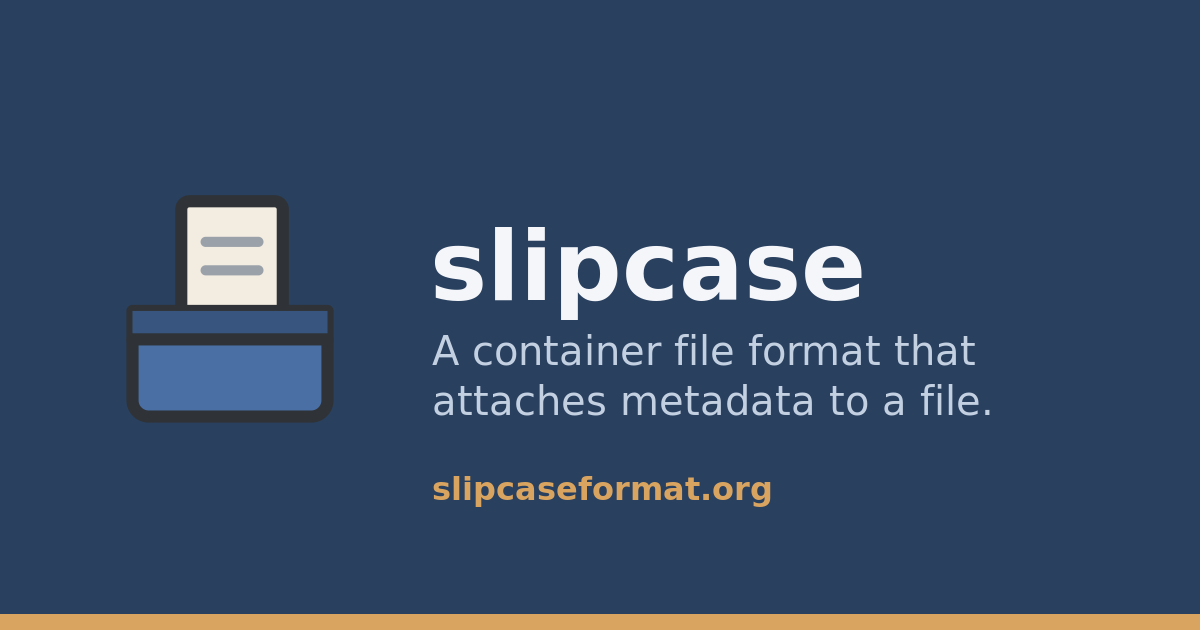
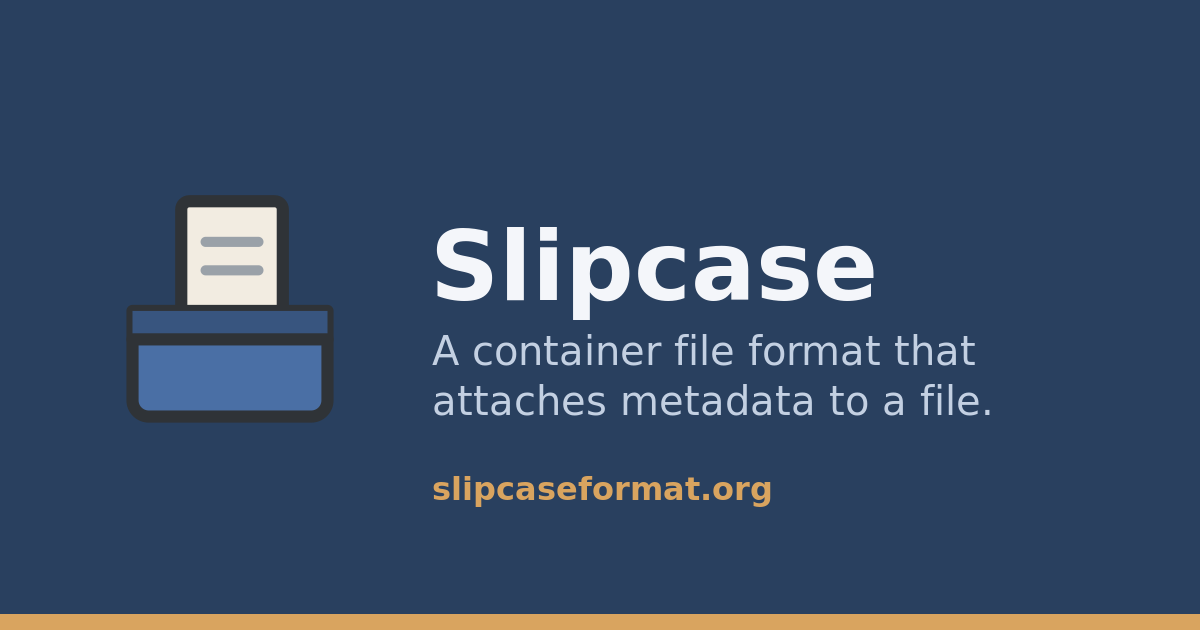
Capitalize the format's name
Slipcase is a name. The site wrote it lowercase throughout while the
application that opens containers has always been Slipcase, and the two
readings sat one click apart.

Applied where the word is the name and nowhere else: the command-line
tool's own invocations stay lowercase, because "slipcase pack" and
"apt install slipcase" are a command rather than a sentence, and every
identifier — the metadata filename, the version key, the media type, the
package names, the icon file — is untouched. The rule in the sweep was to
skip code spans whole.

The two generated pages come from excelano/slipcase at 2a82e43, which made
the matching change to SPEC.md and DESIGN.md, so the specification and the
site say the name the same way. The social card is rebuilt.

Claude-Session: https://claude.ai/code/session_01PTDU2WeHSn2RYZXpgkjeLD

Changed region(s): [[0.3392, 0.3619, 0.74, 0.5127]]

diff --git a/design/index.html b/design/index.html
@@ -11,18 +11,18 @@
 <head>
     <meta charset="UTF-8">
     <meta name="viewport" content="width=device-width, initial-scale=1.0">
-    <title>slipcase — Design Document</title>
+    <title>Slipcase — Design Document</title>
     <meta name="description" content="SPEC.md states the rules. This document says why each one is drawn where it is,">
     <link rel="canonical" href="https://slipcaseformat.org/design/">
     <link rel="icon" href="/img/slipcase-icon.svg" type="image/svg+xml">
     <link rel="apple-touch-icon" href="/img/apple-touch-icon.png">
     <meta property="og:type" content="website">
-    <meta property="og:site_name" content="slipcase">
-    <meta property="og:title" content="slipcase — Design Document">
+    <meta property="og:site_name" content="Slipcase">
+    <meta property="og:title" content="Slipcase — Design Document">
     <meta property="og:description" content="SPEC.md states the rules. This document says why each one is drawn where it is,">
     <meta property="og:url" content="https://slipcaseformat.org/design/">
     <meta property="og:image" content="https://slipcaseformat.org/img/og-card.png">
-    <meta property="og:image:alt" content="The slipcase icon beside the words slipcase and the line: a container file format that attaches metadata to a file.">
+    <meta property="og:image:alt" content="The Slipcase icon beside the words Slipcase and the line: a container file format that attaches metadata to a file.">
     <meta name="twitter:card" content="summary_large_image">
     <link rel="stylesheet" href="/axe/default.css">
     <link rel="stylesheet" href="/brand.css"><!-- site brand override; cascades over default.css -->
@@ -33,7 +33,7 @@
 
 <nav>
     <ul>
-        <li><a href="/">slipcase</a></li>
+        <li><a href="/">Slipcase</a></li>
         <li><a href="/spec/">Specification</a></li>
         <li><a href="/design/">Design</a></li>
         <li><a href="/implementations/">Implementations</a></li>
@@ -46,7 +46,7 @@
 <article>
 
     <header>
-        <h1>slipcase — Design Document</h1>
+        <h1>Slipcase — Design Document</h1>
         <p class="lede">Why each rule is the way it is, and what was considered and rejected.</p>
     </header>
 
@@ -68,11 +68,11 @@
 <p>So this document does not restate a rule in order to explain it. A rule lives in one place, and a change to a rule is an edit to <code>SPEC.md</code> alone; a change to the reasoning is an edit here alone. Rules are cited as <strong>SPEC §2.1</strong>, never as a bare section number, because both documents have a §3 and they are not the same subject.</p>
 <hr />
 <h2 id="1-what-this-is-about">1. What this is about</h2>
-<p><code>README.md</code> states what slipcase is and the problem it addresses: most files have nowhere to put metadata, and the usual answers — filenames, sidecars, a database — each fail as soon as the file moves. This document assumes that framing and takes up where it leaves off.</p>
-<p>One property of it bears on almost every decision below. slipcase is domain-neutral: nothing in the format knows about any particular industry, system, or kind of document. Where a rule could have been bent toward one kind of payload, it was not.</p>
+<p><code>README.md</code> states what Slipcase is and the problem it addresses: most files have nowhere to put metadata, and the usual answers — filenames, sidecars, a database — each fail as soon as the file moves. This document assumes that framing and takes up where it leaves off.</p>
+<p>One property of it bears on almost every decision below. Slipcase is domain-neutral: nothing in the format knows about any particular industry, system, or kind of document. Where a rule could have been bent toward one kind of payload, it was not.</p>
 <hr />
 <h2 id="2-created-with-ordinary-tools">2. Created with ordinary tools</h2>
-<p>A container can be built with <code>zip</code> and a text editor, and its contents recovered with <code>unzip</code>. No slipcase implementation is required at either end, on any platform, and there is no incantation to get right:</p>
+<p>A container can be built with <code>zip</code> and a text editor, and its contents recovered with <code>unzip</code>. No Slipcase implementation is required at either end, on any platform, and there is no incantation to get right:</p>
 <pre class="bash"><code>cat &gt; slipcase.metadata.toml &lt;&lt;&#39;EOF&#39;
 slipcase_version = &quot;1.0&quot;
 
@@ -105,7 +105,7 @@ zip report.pdf.slpc slipcase.metadata.toml report.pdf</code></pre>
 <p><strong>Why the specification lists what it does not constrain.</strong> An implementer reading about a ZIP-based format will reasonably wonder whether member order, compression method, timestamps, encryption, or Zip64 are pinned. SPEC §2.5 answers all of them at once so that nobody writes a reader that rejects a container for a property the format never cared about. A zero-byte payload is valid for the same reason: an empty file is a file, and someone would otherwise guess it was not.</p>
 <p><strong>Why no magic bytes.</strong> The extension and media type live outside the container. The alternative — a <code>mimetype</code> member stored uncompressed at a known offset — is examined and rejected in §5.</p>
 <h3 id="32-the-metadata-member--spec-22-24">3.2 The metadata member — SPEC §2.2, §2.4</h3>
-<p><strong>Why it is mandatory, and why its name is fixed.</strong> There is no such thing as a slipcase container without metadata. The fixed name is what makes the payload discoverable, since the payload's own name is not known in advance.</p>
+<p><strong>Why it is mandatory, and why its name is fixed.</strong> There is no such thing as a Slipcase container without metadata. The fixed name is what makes the payload discoverable, since the payload's own name is not known in advance.</p>
 <p><strong>Why the TOML version is pinned.</strong> An implementer otherwise does not know which grammar to write against. It is unrelated to <code>slipcase_version</code>, which names this specification rather than the metadata language.</p>
 <p><strong>Why a byte order mark is permitted.</strong> TOML says nothing about a leading mark and parsers split on whether to strip one or reject it, so the format decides rather than leaving it to whichever library an implementation happens to link. Rejecting would punish someone whose editor inserted a character they cannot see, which sits badly with a format that advertises hand-editing.</p>
 <p><strong>Why an unreadable metadata member is undetermined.</strong> SPEC §2.5 does not permit rejecting a container because a member is encrypted, while SPEC §2.2 requires the metadata member to parse as TOML, which an encrypted member does not. The requirement therefore applies to the decrypted content, and a container whose metadata cannot be read is undetermined rather than non-conformant. A reader without the key knows it cannot answer the question, and that is different from knowing the answer is no.</p>
@@ -141,7 +141,7 @@ zip report.pdf.slpc slipcase.metadata.toml report.pdf</code></pre>
 <p>This section once ended by saying that nothing else in SPEC §3 was a security requirement, and that decompression bombs and resource limits belonged to whatever ZIP parser an implementation used, since they applied equally to every ZIP consumer. Four of the rules above are now security requirements. The resource-limit claim was wrong in its premise rather than in its conclusion: a ZIP consumer chooses what to inflate and a reader of this format does not, because inflating the metadata member is how it finds out whether it is holding a container. SPEC §6 takes that up, and §6 below says why it is a rule rather than a library's business.</p>
 <hr />
 <h2 id="5-non-goals">5. Non-goals</h2>
-<p><strong>Signatures.</strong> Out of scope. Signing layers above slipcase, or arrives in a later specification version with its own member, which an implementation written against 1.0 will open and ignore. Anything built on top must account for the absence of a canonical serialization: hash what was actually signed, rather than assuming a container re-serializes identically.</p>
+<p><strong>Signatures.</strong> Out of scope. Signing layers above Slipcase, or arrives in a later specification version with its own member, which an implementation written against 1.0 will open and ignore. Anything built on top must account for the absence of a canonical serialization: hash what was actually signed, rather than assuming a container re-serializes identically.</p>
 <p><strong>Multiple payloads.</strong> <code>payload.file</code> names one member, so the metadata describes one file. A container may physically hold more, but the format assigns them no meaning and defines no aggregation mechanism. Naming N payloads would reinvent ZIP and make the metadata ambiguous about what it describes.</p>
 <p><strong>Encryption.</strong> The format adds none of its own and forbids none. Either member may be encrypted by ZIP's own mechanisms or by encrypting the file before packing it, and a container whose metadata is unreadable to a passer-by is still a container: it is attaching metadata to a file for whoever holds the key. Worth knowing rather than legislating: ZIP encryption narrows which implementations can open a container, since Go's <code>archive/zip</code> supports none of it and Info-ZIP's <code>unzip</code> has not handled AES.</p>
 <p><strong>Fixity.</strong> No checksum key, and no position on whether a payload has changed. That is a preservation question, and preservation is a separate discipline with its own formats. Anyone who wants a digest records one; the format simply does not define it, in the same way it defines no other descriptive key.</p>
@@ -157,7 +157,7 @@ zip report.pdf.slpc slipcase.metadata.toml report.pdf</code></pre>
     </section>
 
     <footer>
-        <p class="provenance">Rendered from <a href="https://github.com/excelano/slipcase/blob/033200d1a61700be7898ddf4bb4f41aa0f840930/DESIGN.md" rel="noopener">DESIGN.md</a> at commit <code>033200d</code>, 2 September 2026. The repository is the authority on the format: where this page and it differ, it is right and this page is stale.</p>
+        <p class="provenance">Rendered from <a href="https://github.com/excelano/slipcase/blob/2a82e43531bfe67720888df14c25d9aa223a23d5/DESIGN.md" rel="noopener">DESIGN.md</a> at commit <code>2a82e43</code>, 2 September 2026. The repository is the authority on the format: where this page and it differ, it is right and this page is stale.</p>
         <p><small>The specification is dedicated to the public domain under <a href="https://creativecommons.org/publicdomain/zero/1.0/" rel="noopener">CC0 1.0</a>. This site is <a href="https://github.com/excelano/slipcaseformat.org" rel="noopener">open to pull requests</a>, though not this page — it is generated.</small></p>
     </footer>
 

diff --git a/spec/index.html b/spec/index.html
@@ -11,18 +11,18 @@
 <head>
     <meta charset="UTF-8">
     <meta name="viewport" content="width=device-width, initial-scale=1.0">
-    <title>slipcase — Specification</title>
-    <meta name="description" content="A slipcase container is a ZIP archive that binds a single payload file to a metadata document describing it, so that the two travel as one file.">
+    <title>Slipcase — Specification</title>
+    <meta name="description" content="A Slipcase container is a ZIP archive that binds a single payload file to a metadata document describing it, so that the two travel as one file.">
     <link rel="canonical" href="https://slipcaseformat.org/spec/">
     <link rel="icon" href="/img/slipcase-icon.svg" type="image/svg+xml">
     <link rel="apple-touch-icon" href="/img/apple-touch-icon.png">
     <meta property="og:type" content="website">
-    <meta property="og:site_name" content="slipcase">
-    <meta property="og:title" content="slipcase — Specification">
-    <meta property="og:description" content="A slipcase container is a ZIP archive that binds a single payload file to a metadata document describing it, so that the two travel as one file.">
+    <meta property="og:site_name" content="Slipcase">
+    <meta property="og:title" content="Slipcase — Specification">
+    <meta property="og:description" content="A Slipcase container is a ZIP archive that binds a single payload file to a metadata document describing it, so that the two travel as one file.">
     <meta property="og:url" content="https://slipcaseformat.org/spec/">
     <meta property="og:image" content="https://slipcaseformat.org/img/og-card.png">
-    <meta property="og:image:alt" content="The slipcase icon beside the words slipcase and the line: a container file format that attaches metadata to a file.">
+    <meta property="og:image:alt" content="The Slipcase icon beside the words Slipcase and the line: a container file format that attaches metadata to a file.">
     <meta name="twitter:card" content="summary_large_image">
     <link rel="stylesheet" href="/axe/default.css">
     <link rel="stylesheet" href="/brand.css"><!-- site brand override; cascades over default.css -->
@@ -33,7 +33,7 @@
 
 <nav>
     <ul>
-        <li><a href="/">slipcase</a></li>
+        <li><a href="/">Slipcase</a></li>
         <li><a href="/spec/">Specification</a></li>
         <li><a href="/design/">Design</a></li>
         <li><a href="/implementations/">Implementations</a></li>
@@ -46,7 +46,7 @@
 <article>
 
     <header>
-        <h1>slipcase — Specification</h1>
+        <h1>Slipcase — Specification</h1>
         <p class="lede">What a conformant container is, and what a program that handles one must do.</p>
     </header>
 
@@ -67,7 +67,7 @@
     <section id="document">
 <p><strong>Version:</strong> 1.0<br />
 <strong>Status:</strong> final</p>
-<p>A slipcase container is a ZIP archive that binds a single payload file to a metadata document describing it, so that the two travel as one file.</p>
+<p>A Slipcase container is a ZIP archive that binds a single payload file to a metadata document describing it, so that the two travel as one file.</p>
 <h2 id="1-terminology">1. Terminology</h2>
 <p>The key words <strong>MUST</strong>, <strong>MUST NOT</strong>, and <strong>MAY</strong> are to be interpreted as described in BCP 14 (<a href="https://www.rfc-editor.org/rfc/rfc2119">RFC 2119</a>, <a href="https://www.rfc-editor.org/rfc/rfc8174">RFC 8174</a>) when, and only when, they appear in capitals.</p>
 <p><strong>Container</strong> — a ZIP archive conforming to §2.<br />
@@ -179,7 +179,7 @@ zip report.pdf.slpc slipcase.metadata.toml report.pdf</code></pre>
     </section>
 
     <footer>
-        <p class="provenance">Rendered from <a href="https://github.com/excelano/slipcase/blob/033200d1a61700be7898ddf4bb4f41aa0f840930/SPEC.md" rel="noopener">SPEC.md</a> at commit <code>033200d</code>, 2 September 2026. The repository is the authority on the format: where this page and it differ, it is right and this page is stale.</p>
+        <p class="provenance">Rendered from <a href="https://github.com/excelano/slipcase/blob/2a82e43531bfe67720888df14c25d9aa223a23d5/SPEC.md" rel="noopener">SPEC.md</a> at commit <code>2a82e43</code>, 2 September 2026. The repository is the authority on the format: where this page and it differ, it is right and this page is stale.</p>
         <p><small>The specification is dedicated to the public domain under <a href="https://creativecommons.org/publicdomain/zero/1.0/" rel="noopener">CC0 1.0</a>. This site is <a href="https://github.com/excelano/slipcaseformat.org" rel="noopener">open to pull requests</a>, though not this page — it is generated.</small></p>
     </footer>
 

diff --git a/implementations/index.html b/implementations/index.html
@@ -3,18 +3,18 @@
 <head>
     <meta charset="UTF-8">
     <meta name="viewport" content="width=device-width, initial-scale=1.0">
-    <title>Implementations — slipcase</title>
-    <meta name="description" content="Programs that read and write slipcase containers: the reference library and command-line tool, the desktop applications that open one, and what to read before writing your own.">
+    <title>Implementations — Slipcase</title>
+    <meta name="description" content="Programs that read and write Slipcase containers: the reference library and command-line tool, the desktop applications that open one, and what to read before writing your own.">
     <link rel="canonical" href="https://slipcaseformat.org/implementations/">
     <link rel="icon" href="/img/slipcase-icon.svg" type="image/svg+xml">
     <link rel="apple-touch-icon" href="/img/apple-touch-icon.png">
     <meta property="og:type" content="website">
-    <meta property="og:site_name" content="slipcase">
-    <meta property="og:title" content="Implementations — slipcase">
+    <meta property="og:site_name" content="Slipcase">
+    <meta property="og:title" content="Implementations — Slipcase">
     <meta property="og:description" content="The reference library and command-line tool, the applications that open a container, and what to read before writing your own implementation.">
     <meta property="og:url" content="https://slipcaseformat.org/implementations/">
     <meta property="og:image" content="https://slipcaseformat.org/img/og-card.png">
-    <meta property="og:image:alt" content="The slipcase icon beside the words slipcase and the line: a container file format that attaches metadata to a file.">
+    <meta property="og:image:alt" content="The Slipcase icon beside the words Slipcase and the line: a container file format that attaches metadata to a file.">
     <meta name="twitter:card" content="summary_large_image">
     <link rel="stylesheet" href="/axe/default.css">
     <link rel="stylesheet" href="/brand.css"><!-- site brand override; cascades over default.css -->
@@ -25,7 +25,7 @@
 
 <nav>
     <ul>
-        <li><a href="/">slipcase</a></li>
+        <li><a href="/">Slipcase</a></li>
         <li><a href="/spec/">Specification</a></li>
         <li><a href="/design/">Design</a></li>
         <li><a href="/implementations/">Implementations</a></li>
@@ -69,7 +69,7 @@ slipcase unpack report.pdf.slpc --dest ./out     # writes the payload and nothin
 
         <p><a href="https://github.com/excelano/slipcase-open" rel="noopener"><strong>slipcase-open</strong></a> takes the other half of the job. Double-click a container and the payload opens in whatever application normally handles it; edit it there, save, and the edit is repacked into the container. No metadata window and no container browsing — the two products claim the same file association deliberately, and whichever was installed last wins while the other stays one click away in the Open With menu. Linux today, from the apt repository or from source; Windows and macOS are not built yet. MIT licensed.</p>
 
-        <p><a href="https://github.com/excelano/slipcase-common" rel="noopener"><strong>slipcase-common</strong></a> is not a program. It is the media type declaration and the icon a container is drawn with, packaged once so that every slipcase product on a Linux machine can depend on it — two packages cannot ship the same path, and an icon named for a media type is one file at one path. Without it a container draws as a blank generic document, which is the first thing somebody sees of a file format they were sent and did not ask for.</p>
+        <p><a href="https://github.com/excelano/slipcase-common" rel="noopener"><strong>slipcase-common</strong></a> is not a program. It is the media type declaration and the icon a container is drawn with, packaged once so that every Slipcase product on a Linux machine can depend on it — two packages cannot ship the same path, and an icon named for a media type is one file at one path. Without it a container draws as a blank generic document, which is the first thing somebody sees of a file format they were sent and did not ask for.</p>
     </section>
 
     <section id="writing-your-own">

diff --git a/index.html b/index.html
@@ -3,18 +3,18 @@
 <head>
     <meta charset="UTF-8">
     <meta name="viewport" content="width=device-width, initial-scale=1.0">
-    <title>slipcase — a container format that attaches metadata to a file</title>
-    <meta name="description" content="slipcase is a container file format: a ZIP archive holding one payload file of any type together with a TOML document describing it, so the two travel as one file. The specification is public domain and needs no special tooling to read or write.">
+    <title>Slipcase — a container format that attaches metadata to a file</title>
+    <meta name="description" content="Slipcase is a container file format: a ZIP archive holding one payload file of any type together with a TOML document describing it, so the two travel as one file. The specification is public domain and needs no special tooling to read or write.">
     <link rel="canonical" href="https://slipcaseformat.org/">
     <link rel="icon" href="/img/slipcase-icon.svg" type="image/svg+xml">
     <link rel="apple-touch-icon" href="/img/apple-touch-icon.png">
     <meta property="og:type" content="website">
-    <meta property="og:site_name" content="slipcase">
-    <meta property="og:title" content="slipcase — a container format that attaches metadata to a file">
+    <meta property="og:site_name" content="Slipcase">
+    <meta property="og:title" content="Slipcase — a container format that attaches metadata to a file">
     <meta property="og:description" content="A .slpc file is a ZIP archive holding a payload of any type together with a TOML document describing it, so the two travel as one file. Public domain, and readable with the tools you already have.">
     <meta property="og:url" content="https://slipcaseformat.org/">
     <meta property="og:image" content="https://slipcaseformat.org/img/og-card.png">
-    <meta property="og:image:alt" content="The slipcase icon beside the words slipcase and the line: a container file format that attaches metadata to a file.">
+    <meta property="og:image:alt" content="The Slipcase icon beside the words Slipcase and the line: a container file format that attaches metadata to a file.">
     <meta name="twitter:card" content="summary_large_image">
     <link rel="stylesheet" href="/axe/default.css">
     <link rel="stylesheet" href="/brand.css"><!-- site brand override; cascades over default.css -->
@@ -25,7 +25,7 @@
 
 <nav>
     <ul>
-        <li><a href="/">slipcase</a></li>
+        <li><a href="/">Slipcase</a></li>
         <li><a href="/spec/">Specification</a></li>
         <li><a href="/design/">Design</a></li>
         <li><a href="/implementations/">Implementations</a></li>
@@ -40,7 +40,7 @@
     <header>
         <div class="title-row">
             <img src="/img/slipcase-icon.svg" alt="" aria-hidden="true" width="64" height="64">
-            <h1>slipcase</h1>
+            <h1>Slipcase</h1>
         </div>
         <p class="lede">A container file format that attaches metadata to a file.</p>
     </header>

diff --git a/tools/doc-template.html b/tools/doc-template.html
@@ -17,12 +17,12 @@
     <link rel="icon" href="/img/slipcase-icon.svg" type="image/svg+xml">
     <link rel="apple-touch-icon" href="/img/apple-touch-icon.png">
     <meta property="og:type" content="website">
-    <meta property="og:site_name" content="slipcase">
+    <meta property="og:site_name" content="Slipcase">
     <meta property="og:title" content="$pagetitle$">
     <meta property="og:description" content="$description$">
     <meta property="og:url" content="https://slipcaseformat.org/$slug$/">
     <meta property="og:image" content="https://slipcaseformat.org/img/og-card.png">
-    <meta property="og:image:alt" content="The slipcase icon beside the words slipcase and the line: a container file format that attaches metadata to a file.">
+    <meta property="og:image:alt" content="The Slipcase icon beside the words Slipcase and the line: a container file format that attaches metadata to a file.">
     <meta name="twitter:card" content="summary_large_image">
     <link rel="stylesheet" href="/axe/default.css">
     <link rel="stylesheet" href="/brand.css"><!-- site brand override; cascades over default.css -->
@@ -33,7 +33,7 @@
 
 <nav>
     <ul>
-        <li><a href="/">slipcase</a></li>
+        <li><a href="/">Slipcase</a></li>
         <li><a href="/spec/">Specification</a></li>
         <li><a href="/design/">Design</a></li>
         <li><a href="/implementations/">Implementations</a></li>

diff --git a/404.html b/404.html
@@ -3,7 +3,7 @@
 <head>
     <meta charset="UTF-8">
     <meta name="viewport" content="width=device-width, initial-scale=1.0">
-    <title>Not found — slipcase</title>
+    <title>Not found — Slipcase</title>
     <meta name="robots" content="noindex">
     <link rel="icon" href="/img/slipcase-icon.svg" type="image/svg+xml">
     <link rel="apple-touch-icon" href="/img/apple-touch-icon.png">
@@ -16,7 +16,7 @@
 
 <nav>
     <ul>
-        <li><a href="/">slipcase</a></li>
+        <li><a href="/">Slipcase</a></li>
         <li><a href="/spec/">Specification</a></li>
         <li><a href="/design/">Design</a></li>
         <li><a href="/implementations/">Implementations</a></li>

diff --git a/README.md b/README.md
@@ -1,6 +1,6 @@
 # slipcaseformat.org
 
-The website for the [slipcase](https://github.com/excelano/slipcase) container
+The website for the [Slipcase](https://github.com/excelano/slipcase) container
 format, live at <https://slipcaseformat.org>.
 
 **The specification is not kept here.** It lives in `excelano/slipcase`, which is
